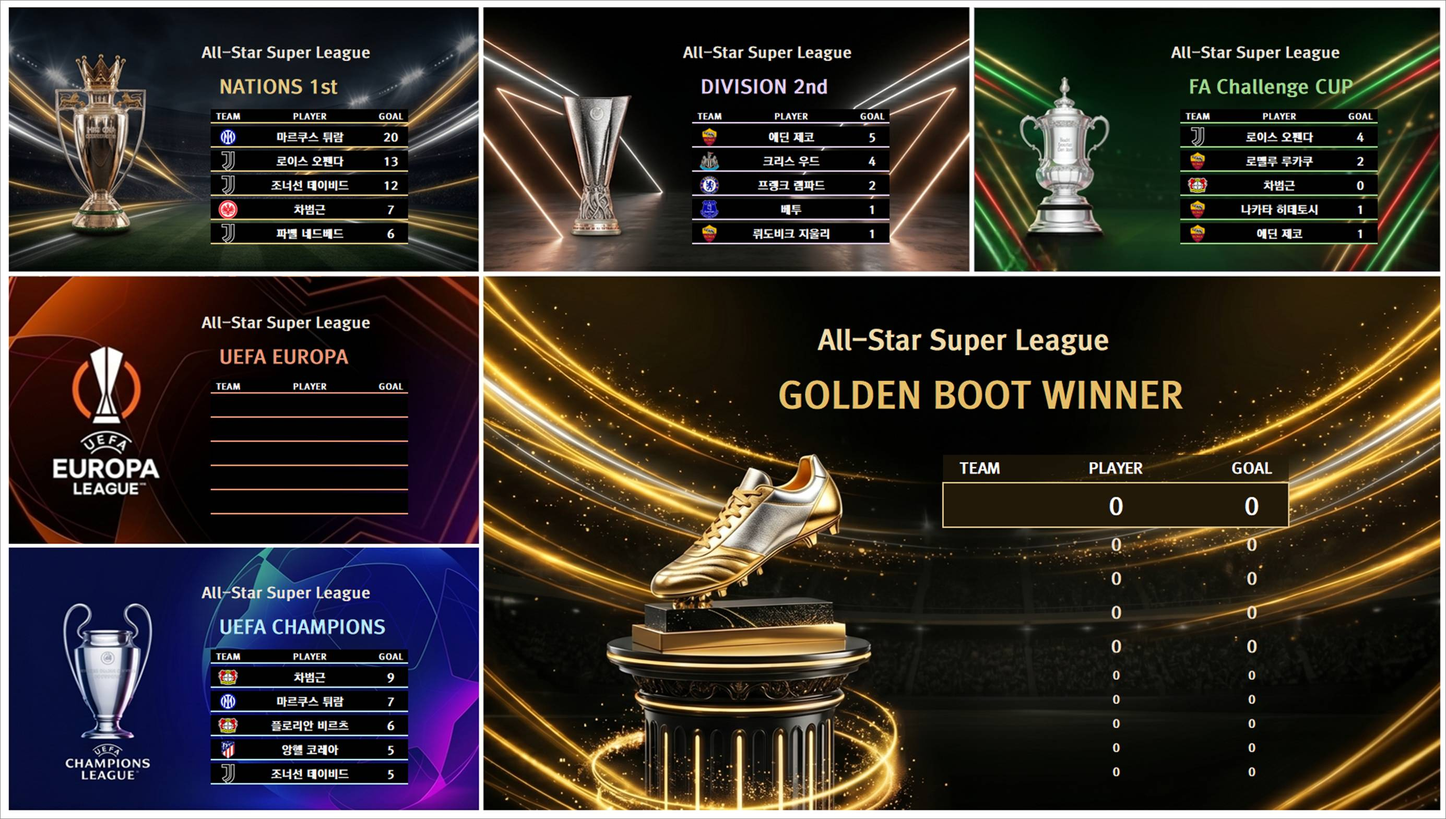
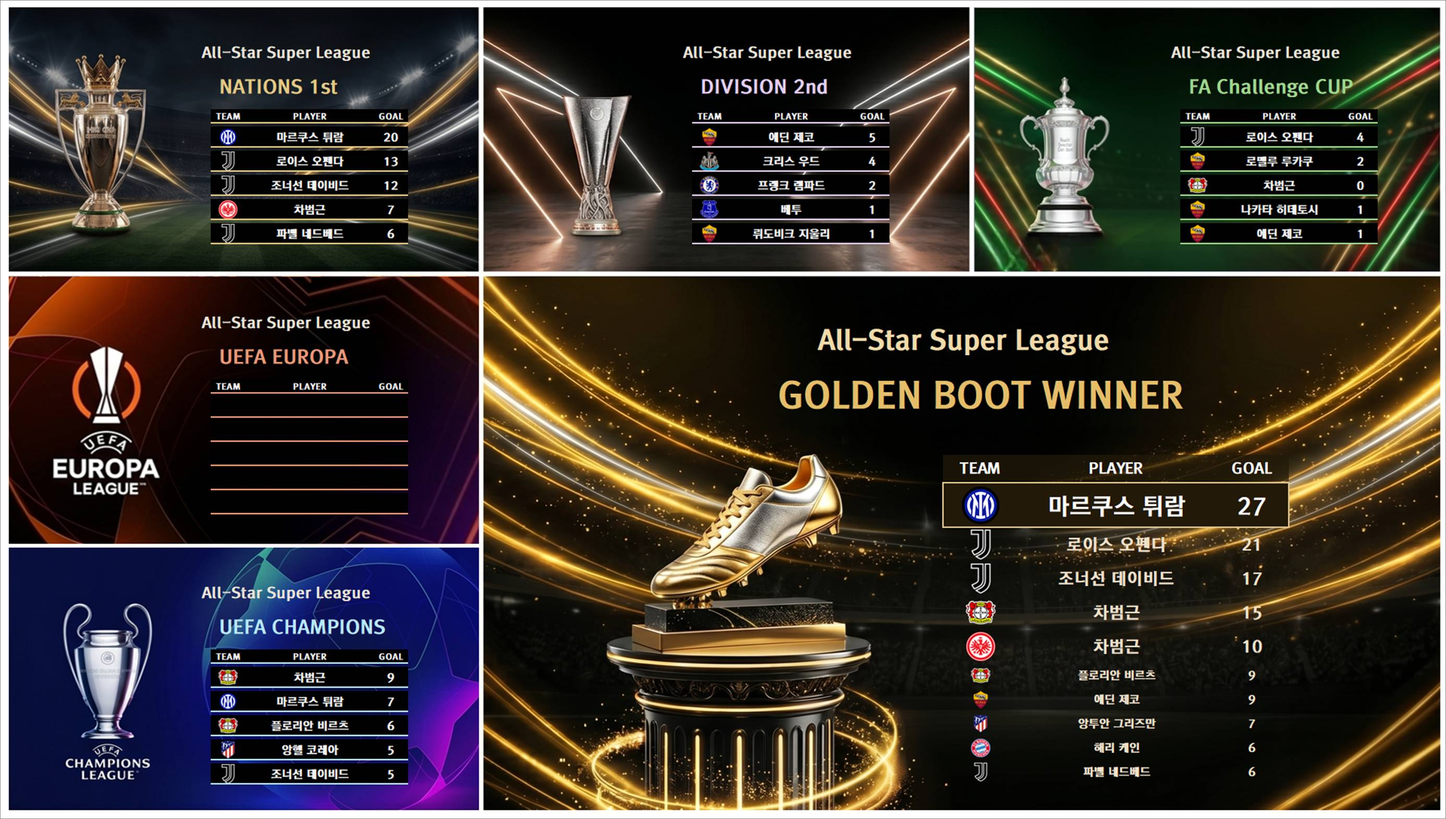
Optimize: 03:32:45

diff --git a/index.html b/index.html
@@ -67,13 +67,13 @@
     </div>
     
     <div class="container">
-        <div class="card"><h2>🏆 1부 리그 순위표</h2><img src="https://i.ibb.co/C3v0HRJj/498a02164f70.jpg" alt="1부 리그"></div>
-        <div class="card"><h2>🏅 2부 리그 순위표</h2><img src="https://i.ibb.co/j9P2tX88/e3b037073f29.jpg" alt="2부 리그"></div>
+        <div class="card"><h2>🥇 1부 리그 순위표</h2><img src="https://i.ibb.co/C3v0HRJj/498a02164f70.jpg" alt="1부 리그"></div>
+        <div class="card"><h2>🥈 2부 리그 순위표</h2><img src="https://i.ibb.co/j9P2tX88/e3b037073f29.jpg" alt="2부 리그"></div>
         <div class="card"><h2>🌟 UCL 그룹스테이지</h2><img src="https://i.ibb.co/dJk60GPn/2537665fb87b.jpg" alt="UCL 조별"></div>
-        <div class="card"><h2>🔥 UCL 토너먼트 대진표</h2><img src="https://i.ibb.co/1tTFWRf3/defbc446f519.jpg" alt="UCL 토너"></div>
-        <div class="card"><h2>🛡 UEL 토너먼트 대진표</h2><img src="https://i.ibb.co/zHC97Nxq/a2267226ccb8.jpg" alt="UEL 토너"></div>
-        <div class="card"><h2>⚔ FA컵 토너먼트 대진표</h2><img src="https://i.ibb.co/Pzx0f23h/364f4b4b809c.jpg" alt="FA컵"></div>
-        <div class="card"><h2>👑 GOLDEN BOOT (통합 득점왕)</h2><img src="https://i.ibb.co/GvHvMBDF/e7499c7ef0f4.jpg" alt="득점왕"></div>
+        <div class="card"><h2>🏆 UCL 토너먼트 대진표</h2><img src="https://i.ibb.co/1tTFWRf3/defbc446f519.jpg" alt="UCL 토너"></div>
+        <div class="card"><h2>🎖 UEL 토너먼트 대진표</h2><img src="https://i.ibb.co/zHC97Nxq/a2267226ccb8.jpg" alt="UEL 토너"></div>
+        <div class="card"><h2>🏅 FA컵 토너먼트 대진표</h2><img src="https://i.ibb.co/Pzx0f23h/364f4b4b809c.jpg" alt="FA컵"></div>
+        <div class="card"><h2>👑 GOLDEN BOOT (통합 득점왕)</h2><img src="https://i.ibb.co/mVQfNy34/c1c1859376fd.jpg" alt="득점왕"></div>
     </div>
     
     <footer>

diff --git a/template.html b/template.html
@@ -67,12 +67,12 @@
     </div>
     
     <div class="container">
-        <div class="card"><h2>🏆 1부 리그 순위표</h2><img src="{{LINK_1ST}}" alt="1부 리그"></div>
-        <div class="card"><h2>🏅 2부 리그 순위표</h2><img src="{{LINK_2ND}}" alt="2부 리그"></div>
+        <div class="card"><h2>🥇 1부 리그 순위표</h2><img src="{{LINK_1ST}}" alt="1부 리그"></div>
+        <div class="card"><h2>🥈 2부 리그 순위표</h2><img src="{{LINK_2ND}}" alt="2부 리그"></div>
         <div class="card"><h2>🌟 UCL 그룹스테이지</h2><img src="{{LINK_UCLG}}" alt="UCL 조별"></div>
-        <div class="card"><h2>🔥 UCL 토너먼트 대진표</h2><img src="{{LINK_UCLT}}" alt="UCL 토너"></div>
-        <div class="card"><h2>🛡 UEL 토너먼트 대진표</h2><img src="{{LINK_UELT}}" alt="UEL 토너"></div>
-        <div class="card"><h2>⚔ FA컵 토너먼트 대진표</h2><img src="{{LINK_FA}}" alt="FA컵"></div>
+        <div class="card"><h2>🏆 UCL 토너먼트 대진표</h2><img src="{{LINK_UCLT}}" alt="UCL 토너"></div>
+        <div class="card"><h2>🎖 UEL 토너먼트 대진표</h2><img src="{{LINK_UELT}}" alt="UEL 토너"></div>
+        <div class="card"><h2>🏅 FA컵 토너먼트 대진표</h2><img src="{{LINK_FA}}" alt="FA컵"></div>
         <div class="card"><h2>👑 GOLDEN BOOT (통합 득점왕)</h2><img src="{{LINK_GB}}" alt="득점왕"></div>
     </div>
     
